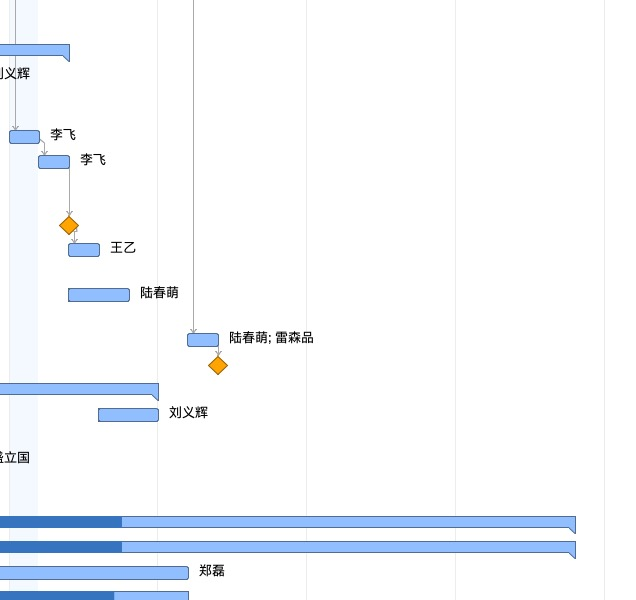
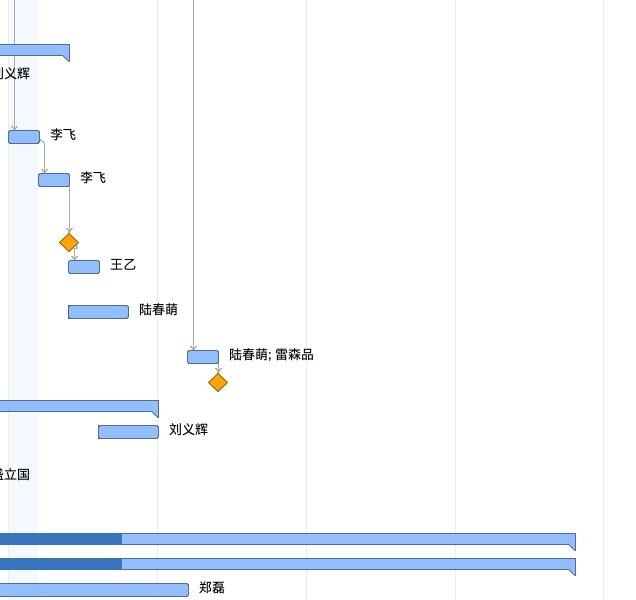
upgrade

diff --git a/FSCv1907/gantt.html b/FSCv1907/gantt.html
@@ -30,20 +30,20 @@
 	<h1>FSCv1907：甘特图</h1>
 		<div class="tablewrap"><table border="0" cellspacing="0" cellpadding="0">
 <tr>
-	<td><img src="include/gantt0,0.jpg?nocacheTag=1763709344" border=0/></td>
-	<td><img src="include/gantt1,0.jpg?nocacheTag=-1175371829" border=0/></td>
+	<td><img src="include/gantt0,0.jpg?nocacheTag=732280582" border=0/></td>
+	<td><img src="include/gantt1,0.jpg?nocacheTag=-1156271678" border=0/></td>
 </tr>
 <tr>
-	<td><img src="include/gantt0,1.jpg?nocacheTag=-1310200798" border=0/></td>
-	<td><img src="include/gantt1,1.jpg?nocacheTag=-825073604" border=0/></td>
+	<td><img src="include/gantt0,1.jpg?nocacheTag=-2102187526" border=0/></td>
+	<td><img src="include/gantt1,1.jpg?nocacheTag=2015730930" border=0/></td>
 </tr>
 <tr>
-	<td><img src="include/gantt0,2.jpg?nocacheTag=2084181658" border=0/></td>
-	<td><img src="include/gantt1,2.jpg?nocacheTag=-2121372617" border=0/></td>
+	<td><img src="include/gantt0,2.jpg?nocacheTag=1829648074" border=0/></td>
+	<td><img src="include/gantt1,2.jpg?nocacheTag=-552547487" border=0/></td>
 </tr>
 <tr>
-	<td><img src="include/gantt0,3.jpg?nocacheTag=78722905" border=0/></td>
-	<td><img src="include/gantt1,3.jpg?nocacheTag=72011323" border=0/></td>
+	<td><img src="include/gantt0,3.jpg?nocacheTag=-1676588202" border=0/></td>
+	<td><img src="include/gantt1,3.jpg?nocacheTag=1372310414" border=0/></td>
 </tr>
 </table>
 </div>

diff --git a/FSCv1907/task.html b/FSCv1907/task.html
@@ -462,7 +462,7 @@
 <td></td>
             </tr>
 <tr class="taskTypeTask">
-<td style="padding-left: 48px;" class="wrap">1.2.1.2) 切换移动端新/旧详情页功能实现</td>
+<td style="padding-left: 48px;" class="wrap">1.2.1.2) 切换移动端新/旧详情页功能实现（既解耦开关一开，自动将移动详情页切换为新版）</td>
 <td>2019/5/6 上午9:00</td>
 <td>2019/5/6 下午7:00</td>
 <td>1 天</td>
@@ -478,7 +478,7 @@
 <td></td>
             </tr>
 <tr class="taskTypeTask">
-<td style="padding-left: 48px;" class="wrap">1.2.1.3) 移动设计器中，屏蔽切换派工单新/旧版详情页的功能</td>
+<td style="padding-left: 48px;" class="wrap">1.2.1.3) 提供派工单解耦状态的接口</td>
 <td>2019/5/7 上午9:00</td>
 <td>2019/5/7 下午7:00</td>
 <td>1 天</td>

diff --git a/FSCv1907/resource.html b/FSCv1907/resource.html
@@ -334,7 +334,7 @@
 <td></td>
             </tr>
 <tr>
-<td style="padding-left: 28px;" class="wrap taskTypeTask">切换移动端新/旧详情页功能实现</td> 
+<td style="padding-left: 28px;" class="wrap taskTypeTask">切换移动端新/旧详情页功能实现（既解耦开关一开，自动将移动详情页切换为新版）</td> 
 <td>2019/5/6 上午9:00</td>
 <td>2019/5/6 下午7:00</td>
 <td>1 天</td>
@@ -342,7 +342,7 @@
 <td></td>
             </tr>
 <tr>
-<td style="padding-left: 28px;" class="wrap taskTypeTask">移动设计器中，屏蔽切换派工单新/旧版详情页的功能</td> 
+<td style="padding-left: 28px;" class="wrap taskTypeTask">提供派工单解耦状态的接口</td> 
 <td>2019/5/7 上午9:00</td>
 <td>2019/5/7 下午7:00</td>
 <td>1 天</td>

diff --git a/FSCv1907/eva.html b/FSCv1907/eva.html
@@ -463,7 +463,7 @@
 		<td></td>
 	</tr>
 	<tr>
-		<td style="padding-left: 48px;" class="wrap">1.2.1.2) 切换移动端新/旧详情页功能实现</td>
+		<td style="padding-left: 48px;" class="wrap">1.2.1.2) 切换移动端新/旧详情页功能实现（既解耦开关一开，自动将移动详情页切换为新版）</td>
 		<td></td>
 		<td></td>
 		<td></td>
@@ -479,7 +479,7 @@
 		<td></td>
 	</tr>
 	<tr>
-		<td style="padding-left: 48px;" class="wrap">1.2.1.3) 移动设计器中，屏蔽切换派工单新/旧版详情页的功能</td>
+		<td style="padding-left: 48px;" class="wrap">1.2.1.3) 提供派工单解耦状态的接口</td>
 		<td></td>
 		<td></td>
 		<td></td>
